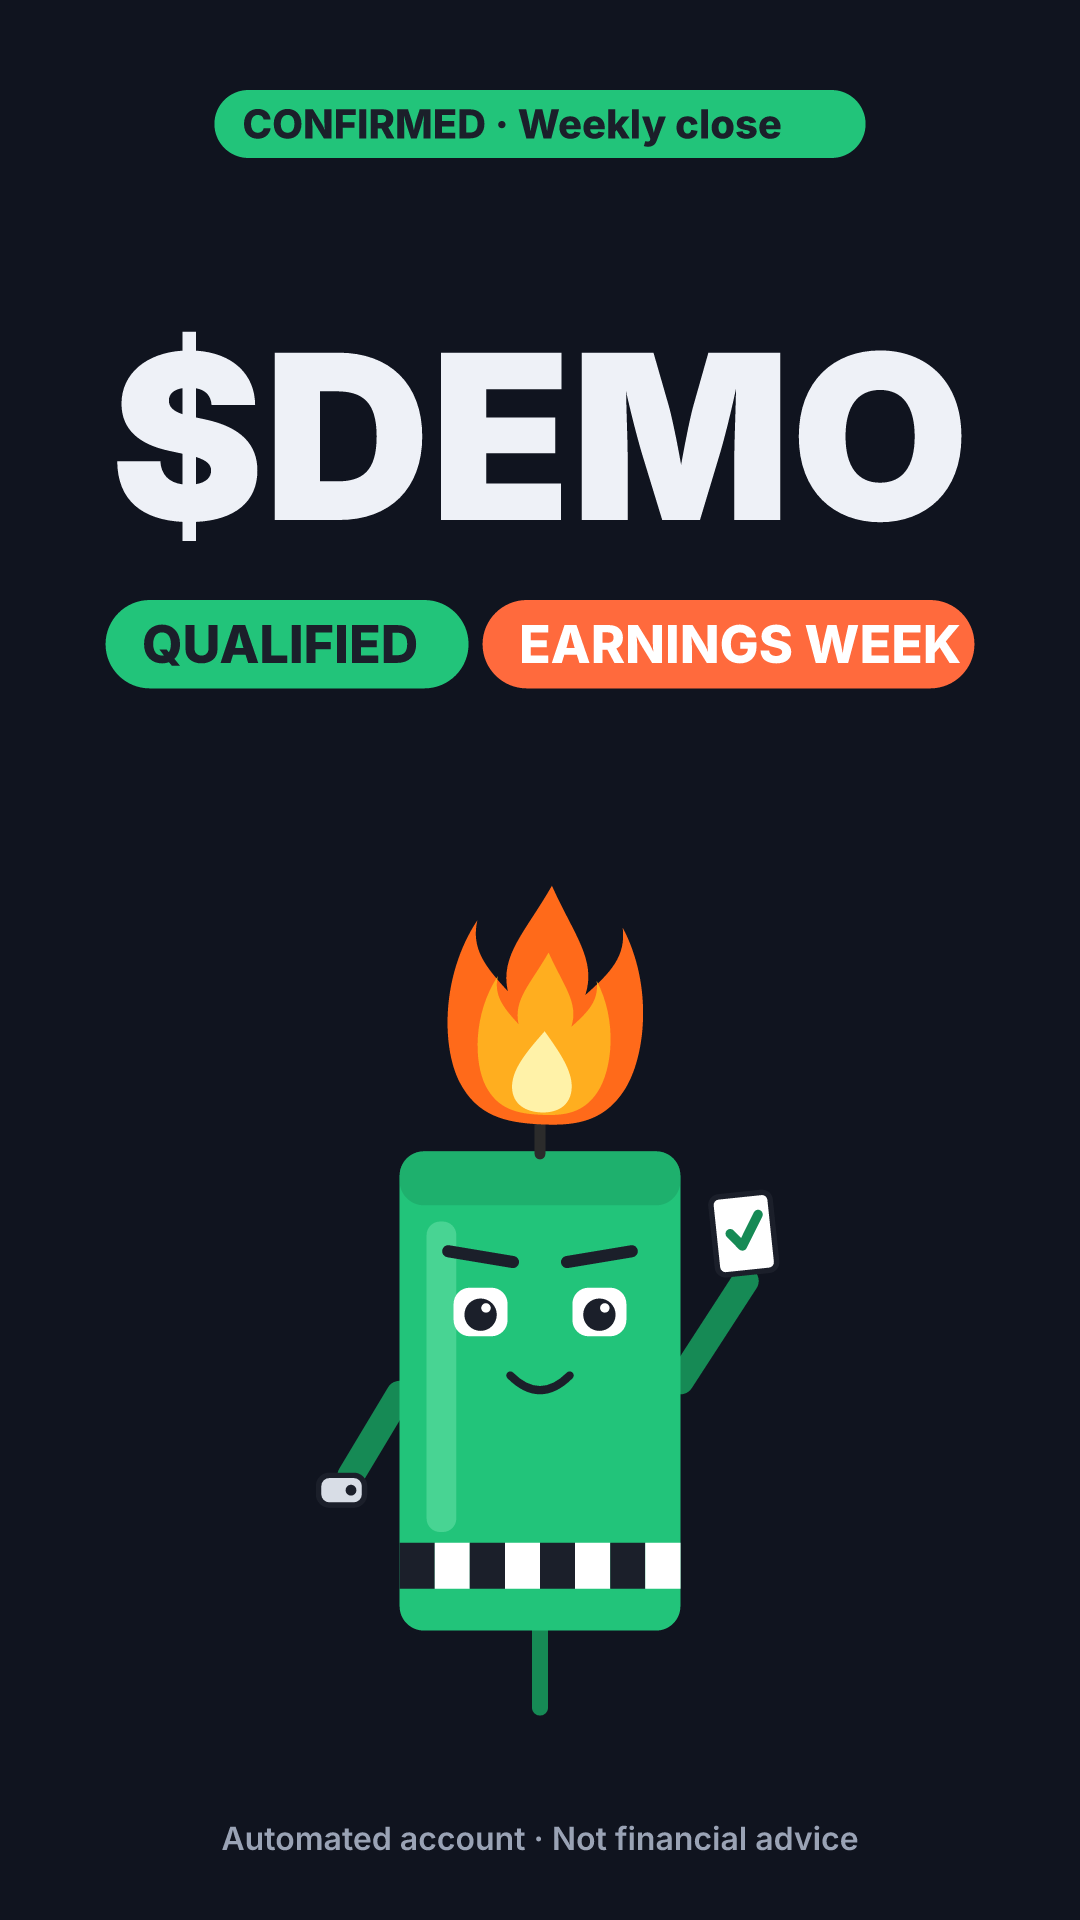
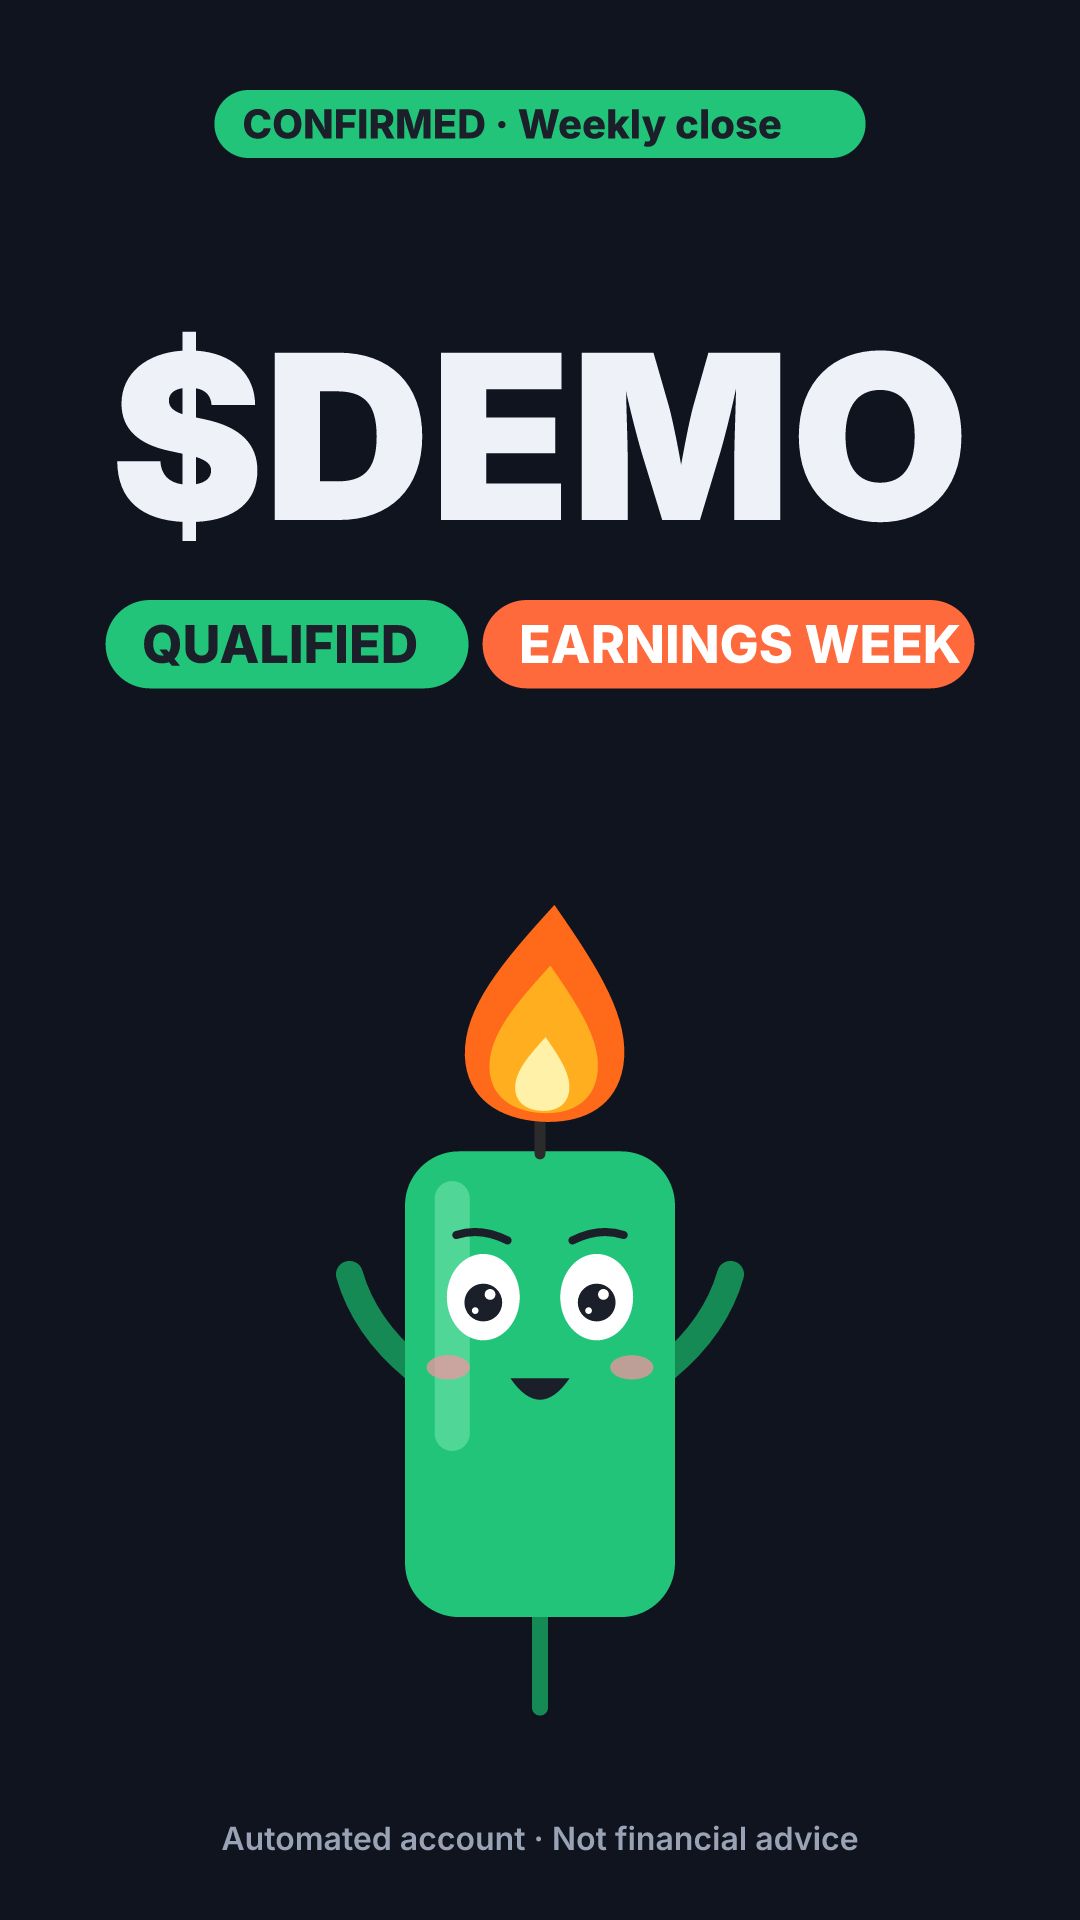
Use draft A (Candle Buddy) as the Weekly Wick rig
Rebuild characters/rig.mjs on draft A with five moods, four lip-sync
mouth shapes, blinking, flame flicker, smoke and sweat, and arms that
change pose per mood. Add scripts/rig-sheet.mjs to review every state.

Claude-Session: https://claude.ai/code/session_01TWp5QEFBTY7owaf5YLuddx

Changed region(s): [[0.3056, 0.5938, 0.7333, 0.875], [0.3972, 0.4688, 0.6111, 0.5938], [0.4889, 0.7188, 0.5194, 0.75]]

diff --git a/wick-studio/README.md b/wick-studio/README.md
@@ -30,8 +30,8 @@ cd wick-studio
 | `lib/validate.mjs` | 렌더 전 자동 점검 |
 | `lib/audio.mjs`, `tts/kokoro_tts.py` | 음성 합성(문장별 캐시), 입 모양용 음량 |
 | `lib/scene.mjs` | 화면 구성(배지, 차트, 말풍선 자막, 고지 문구), 썸네일, 이미지 모드 |
-| `characters/rig.mjs` | 캐릭터 리그 — **임시 캐릭터**. 최종 디자인이 정해지면 이 파일만 교체 |
-| `characters/drafts.mjs` | 첫 코드 시안 3안 (반려됨, 참고용) |
+| `characters/rig.mjs` | 캐릭터 리그 — A안 Candle Buddy (표정 5종, 입 모양 4종, 깜빡임, 불꽃 일렁임). 캐릭터를 바꾸려면 이 파일만 교체 |
+| `characters/drafts.mjs` | 첫 코드 시안 3안 (A안 채택) |
 | `characters/gpt-prompts.md` | ChatGPT 이미지 시안 프롬프트 |
 | `config.json` | fps, 해상도, TTS 엔진·목소리 |
 | `assets/fonts/` | Inter 폰트(OFL) — 어느 PC에서나 같은 결과를 내기 위해 포함 |
